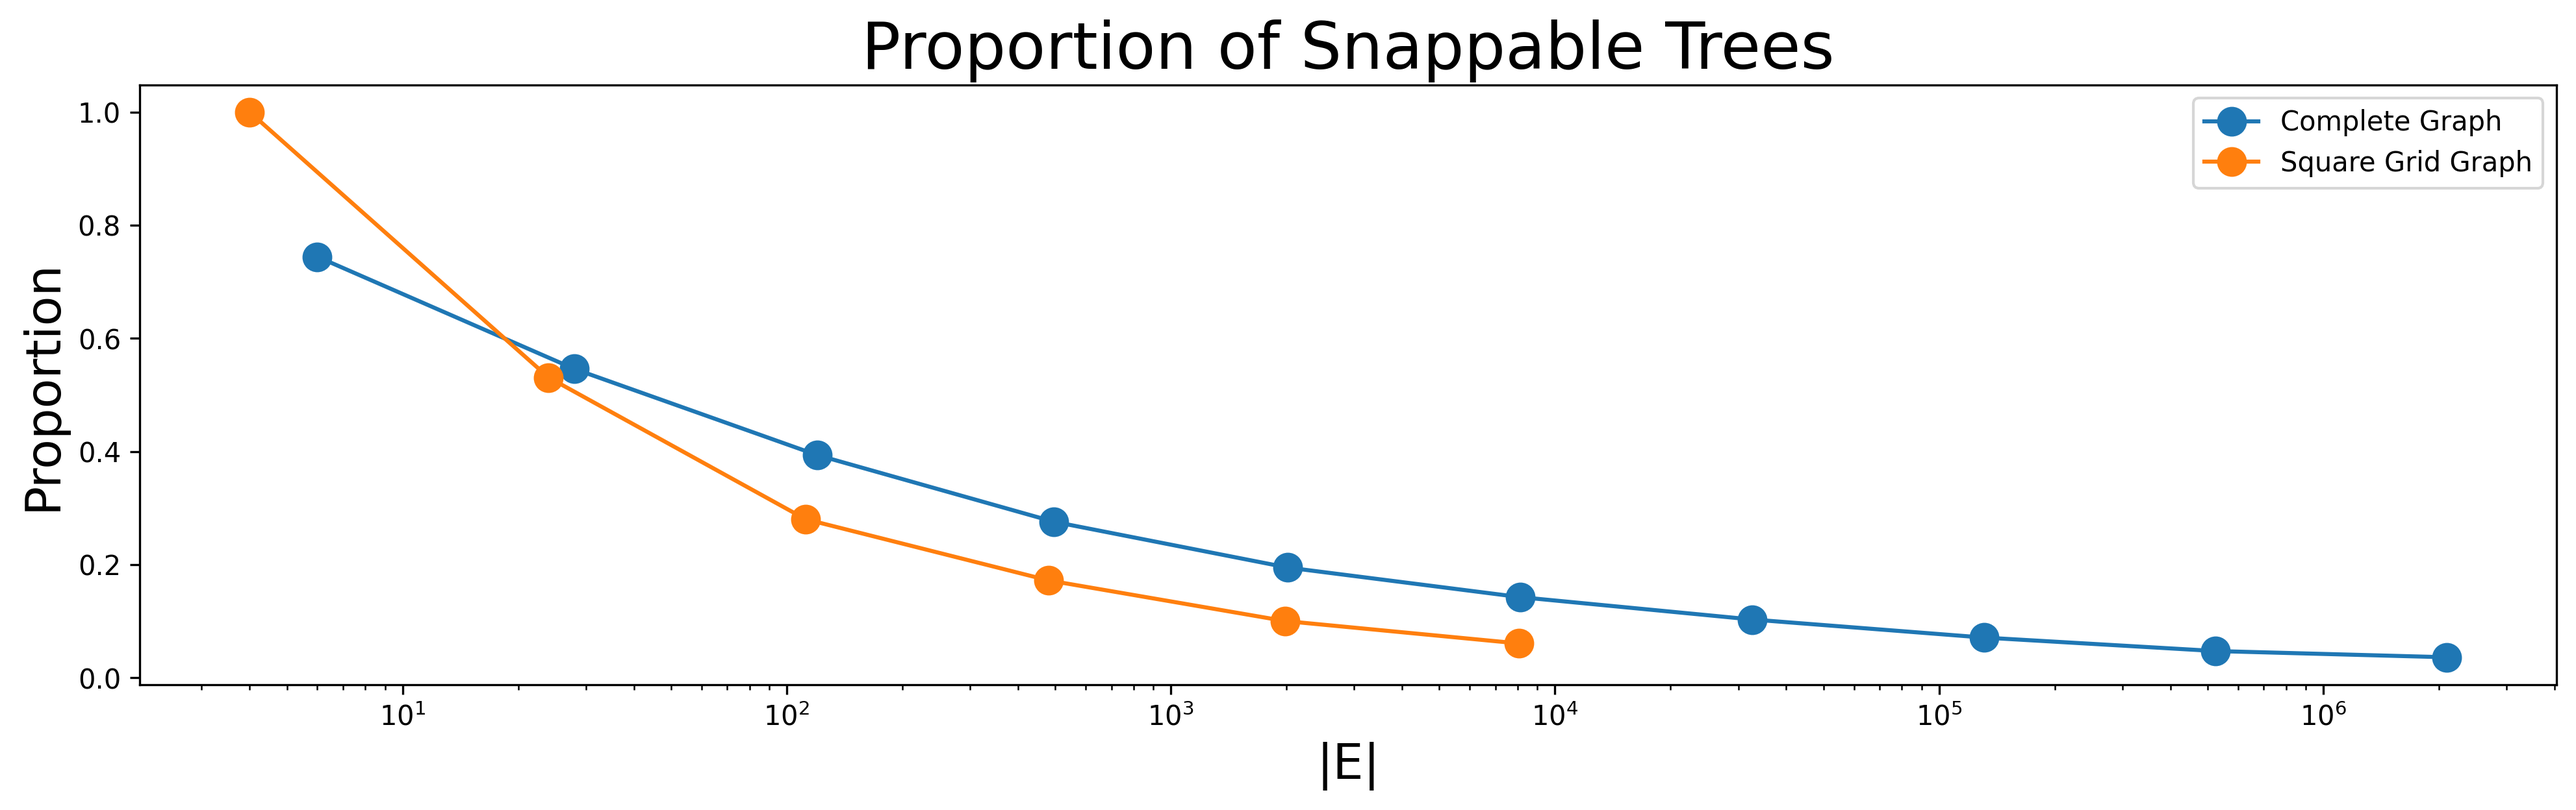
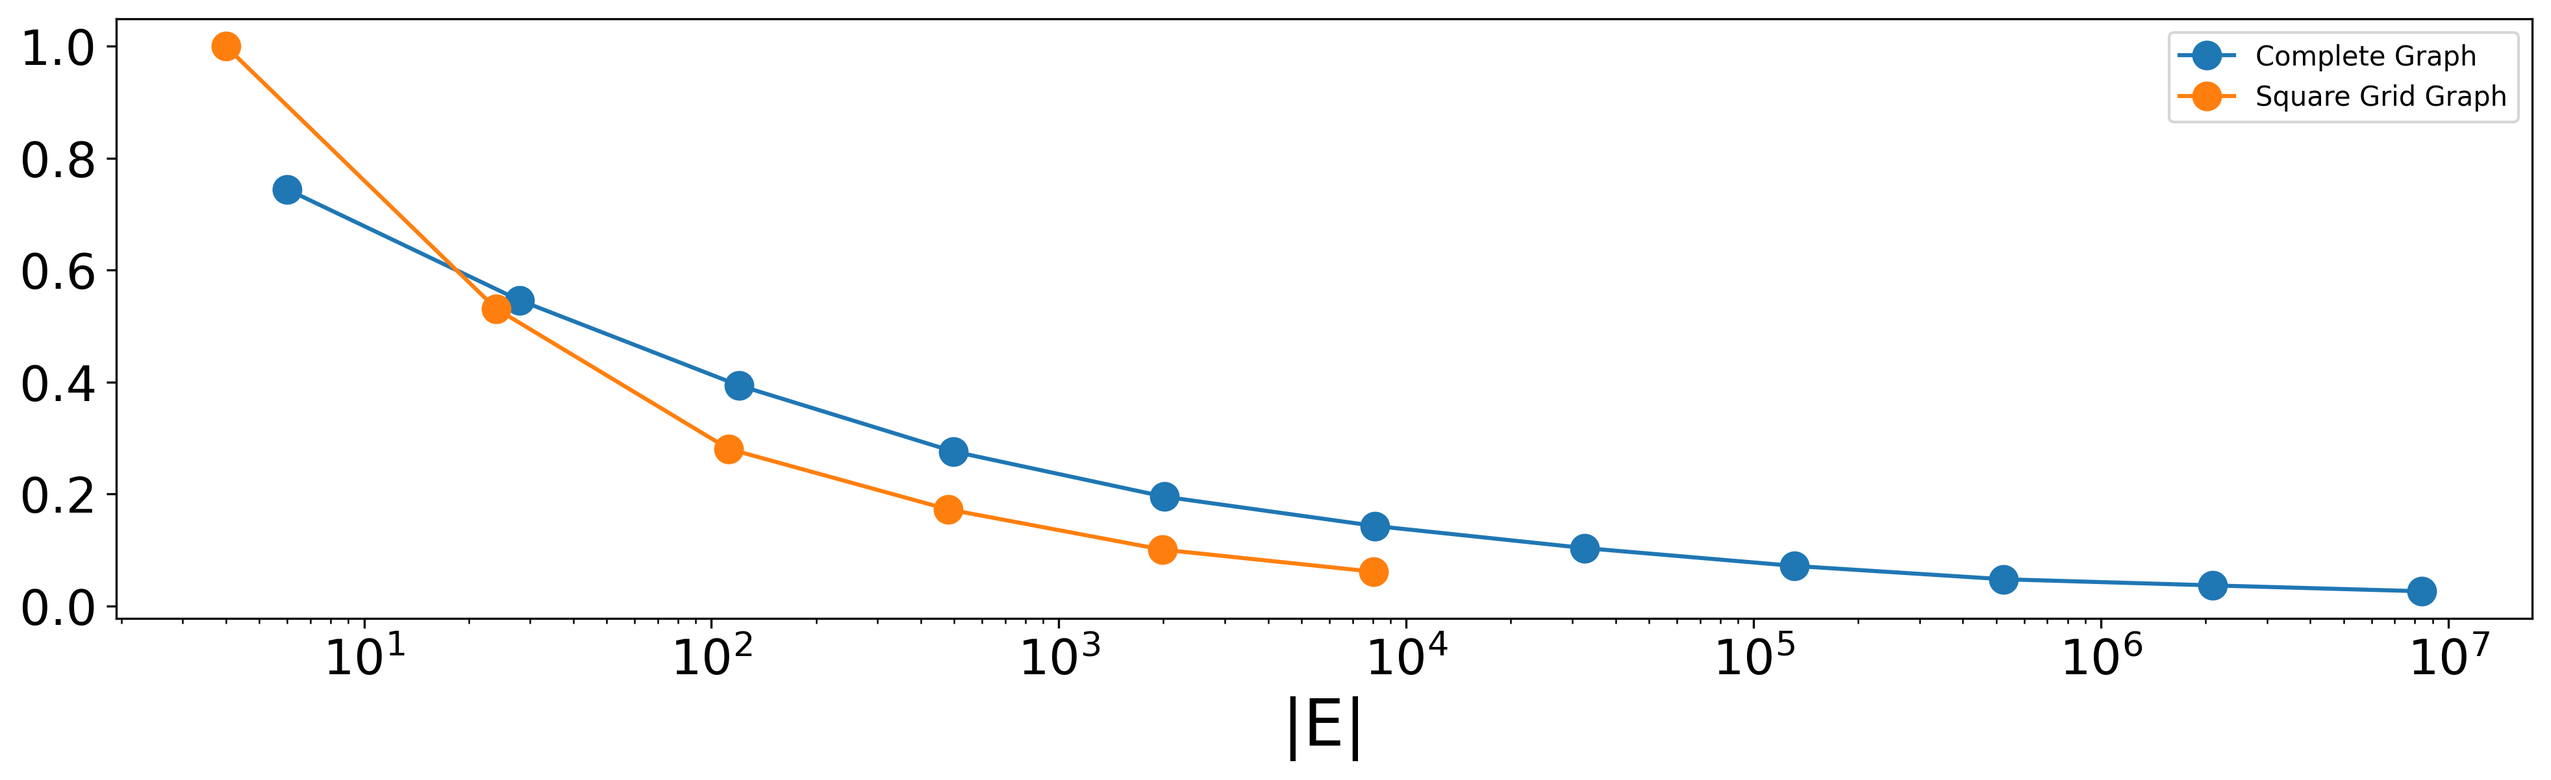
add a little more heuristics data

diff --git a/heuristics.py b/heuristics.py
@@ -36,7 +36,7 @@ def run_experiment(kind, trials):
     with open(f"heuristics/{kind}_{trials}.csv", "a") as f:
         f.write("size,proportion_snaps\n")
     
-    for size in [2, 4, 8, 16, 32, 64, 128, 256, 512, 1024, 2048]:
+    for size in [2, 4, 8, 16, 32, 64, 128, 256, 512, 1024, 2048, 4096]:
         proportion = count_snaps(trials, size, kind)
         with open(f"heuristics/{kind}_{trials}.csv", "a") as f:
             f.write(f"{size},{proportion}\n")
